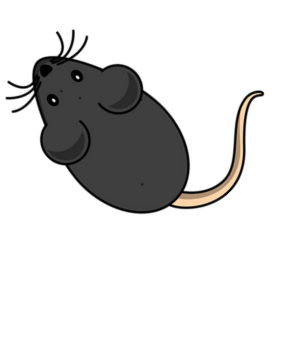
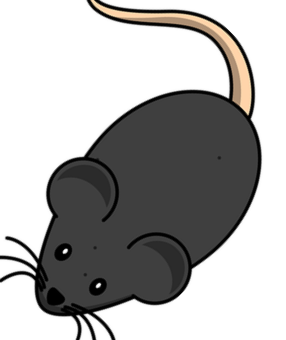
visualize direction in client

diff --git a/client/src/playback/Bodies.ts b/client/src/playback/Bodies.ts
@@ -463,10 +463,10 @@ export class Body {
 
         const coords: Vector[] = []
         const halfFOV = fov / 2
-        if(direction == 0){
+        if (direction == 0) {
             return coords
         }
-        const dirAngle = (direction * 45 + 135)%360
+        const dirAngle = (direction * 45 + 135) % 360
         const directionRad = (dirAngle * Math.PI) / 180
 
         for (let x = minX; x <= maxX; x++) {
@@ -701,6 +701,8 @@ export const BODY_DEFINITIONS: Record<schema.RobotType, typeof Body> = {
         }
 
         public draw(match: Match, ctx: CanvasRenderingContext2D): void {
+            const dir = this.direction
+            this.imgPath = `robots/${this.team.colorName.toLowerCase()}/rat_${dir}_64x64.png`
             super.draw(match, ctx)
         }
     },
@@ -717,6 +719,8 @@ export const BODY_DEFINITIONS: Record<schema.RobotType, typeof Body> = {
         }
 
         public draw(match: Match, ctx: CanvasRenderingContext2D): void {
+            const dir = this.direction
+            this.imgPath = `robots/${this.team.colorName.toLowerCase()}/rat_king_${dir}_64x64.png`
             super.draw(match, ctx)
         }
     },
@@ -733,6 +737,8 @@ export const BODY_DEFINITIONS: Record<schema.RobotType, typeof Body> = {
         }
 
         public draw(match: Match, ctx: CanvasRenderingContext2D): void {
+            const dir = this.direction
+            this.imgPath = `robots/cat/cat_${dir}.png`
             super.draw(match, ctx)
         }
     }

diff --git a/client/src/playback/GameRenderer.ts b/client/src/playback/GameRenderer.ts
@@ -53,17 +53,16 @@ class GameRendererClass {
         topCanvas.oncontextmenu = (e) => e.preventDefault()
 
         // Preload all game images
-        loadImage('icons/gears_64x64.png')
-        loadImage('icons/hammer_64x64.png')
-        loadImage('icons/mop_64x64.png')
-        loadImage('ruins/silver.png')
+        loadImage('icons/cheese_64x64.png')
+        loadImage('cheese_mine.png')
+        loadImage('robots/squeak.png')
+        loadImage('dirty.png')
         for (const color of TEAM_COLOR_NAMES) {
-            loadImage(`robots/${color.toLowerCase()}/defense_tower_64x64.png`)
-            loadImage(`robots/${color.toLowerCase()}/money_tower_64x64.png`)
-            loadImage(`robots/${color.toLowerCase()}/paint_tower_64x64.png`)
-            loadImage(`robots/${color.toLowerCase()}/soldier_64x64.png`)
-            loadImage(`robots/${color.toLowerCase()}/splasher_64x64.png`)
-            loadImage(`robots/${color.toLowerCase()}/mopper_64x64.png`)
+            for (let i = 0; i < 9; i++) {
+                loadImage(`robots/cat/cat_${i}.png`)
+                loadImage(`robots/${color.toLowerCase()}/rat_king_${i}_64x64.png`)
+                loadImage(`robots/${color.toLowerCase()}/rat_${i}_64x64.png`)
+            }
         }
     }
 
